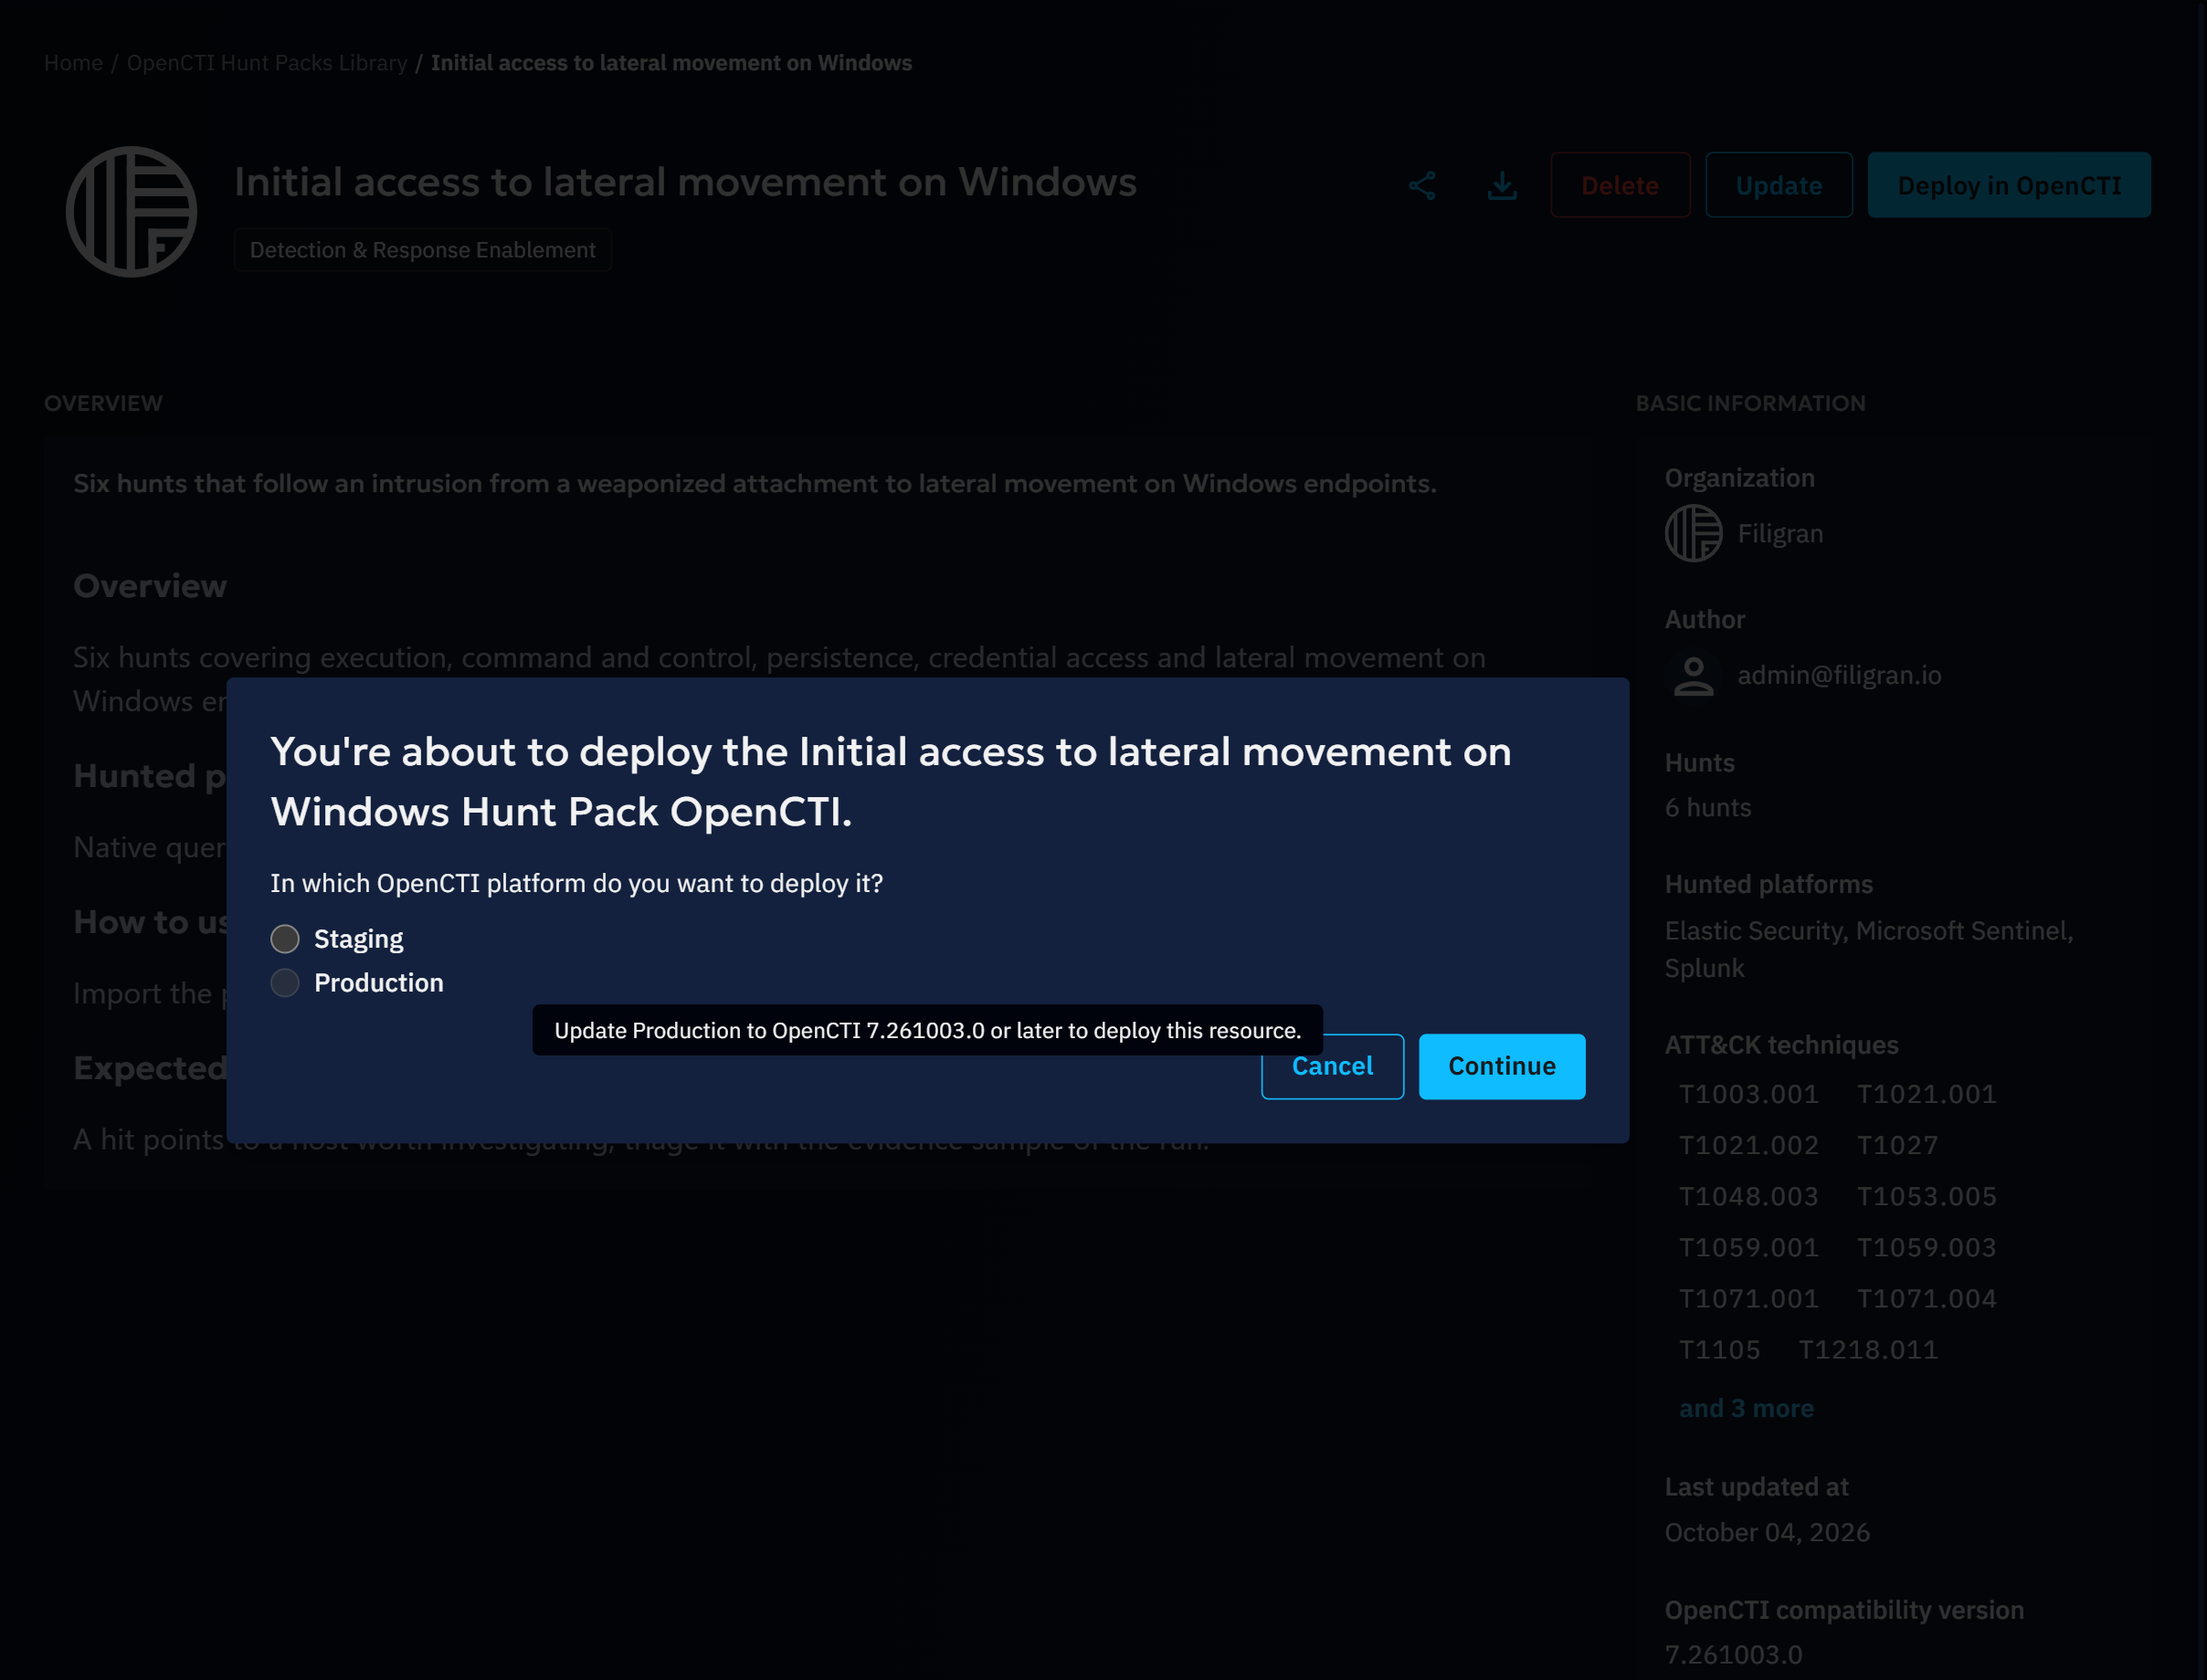
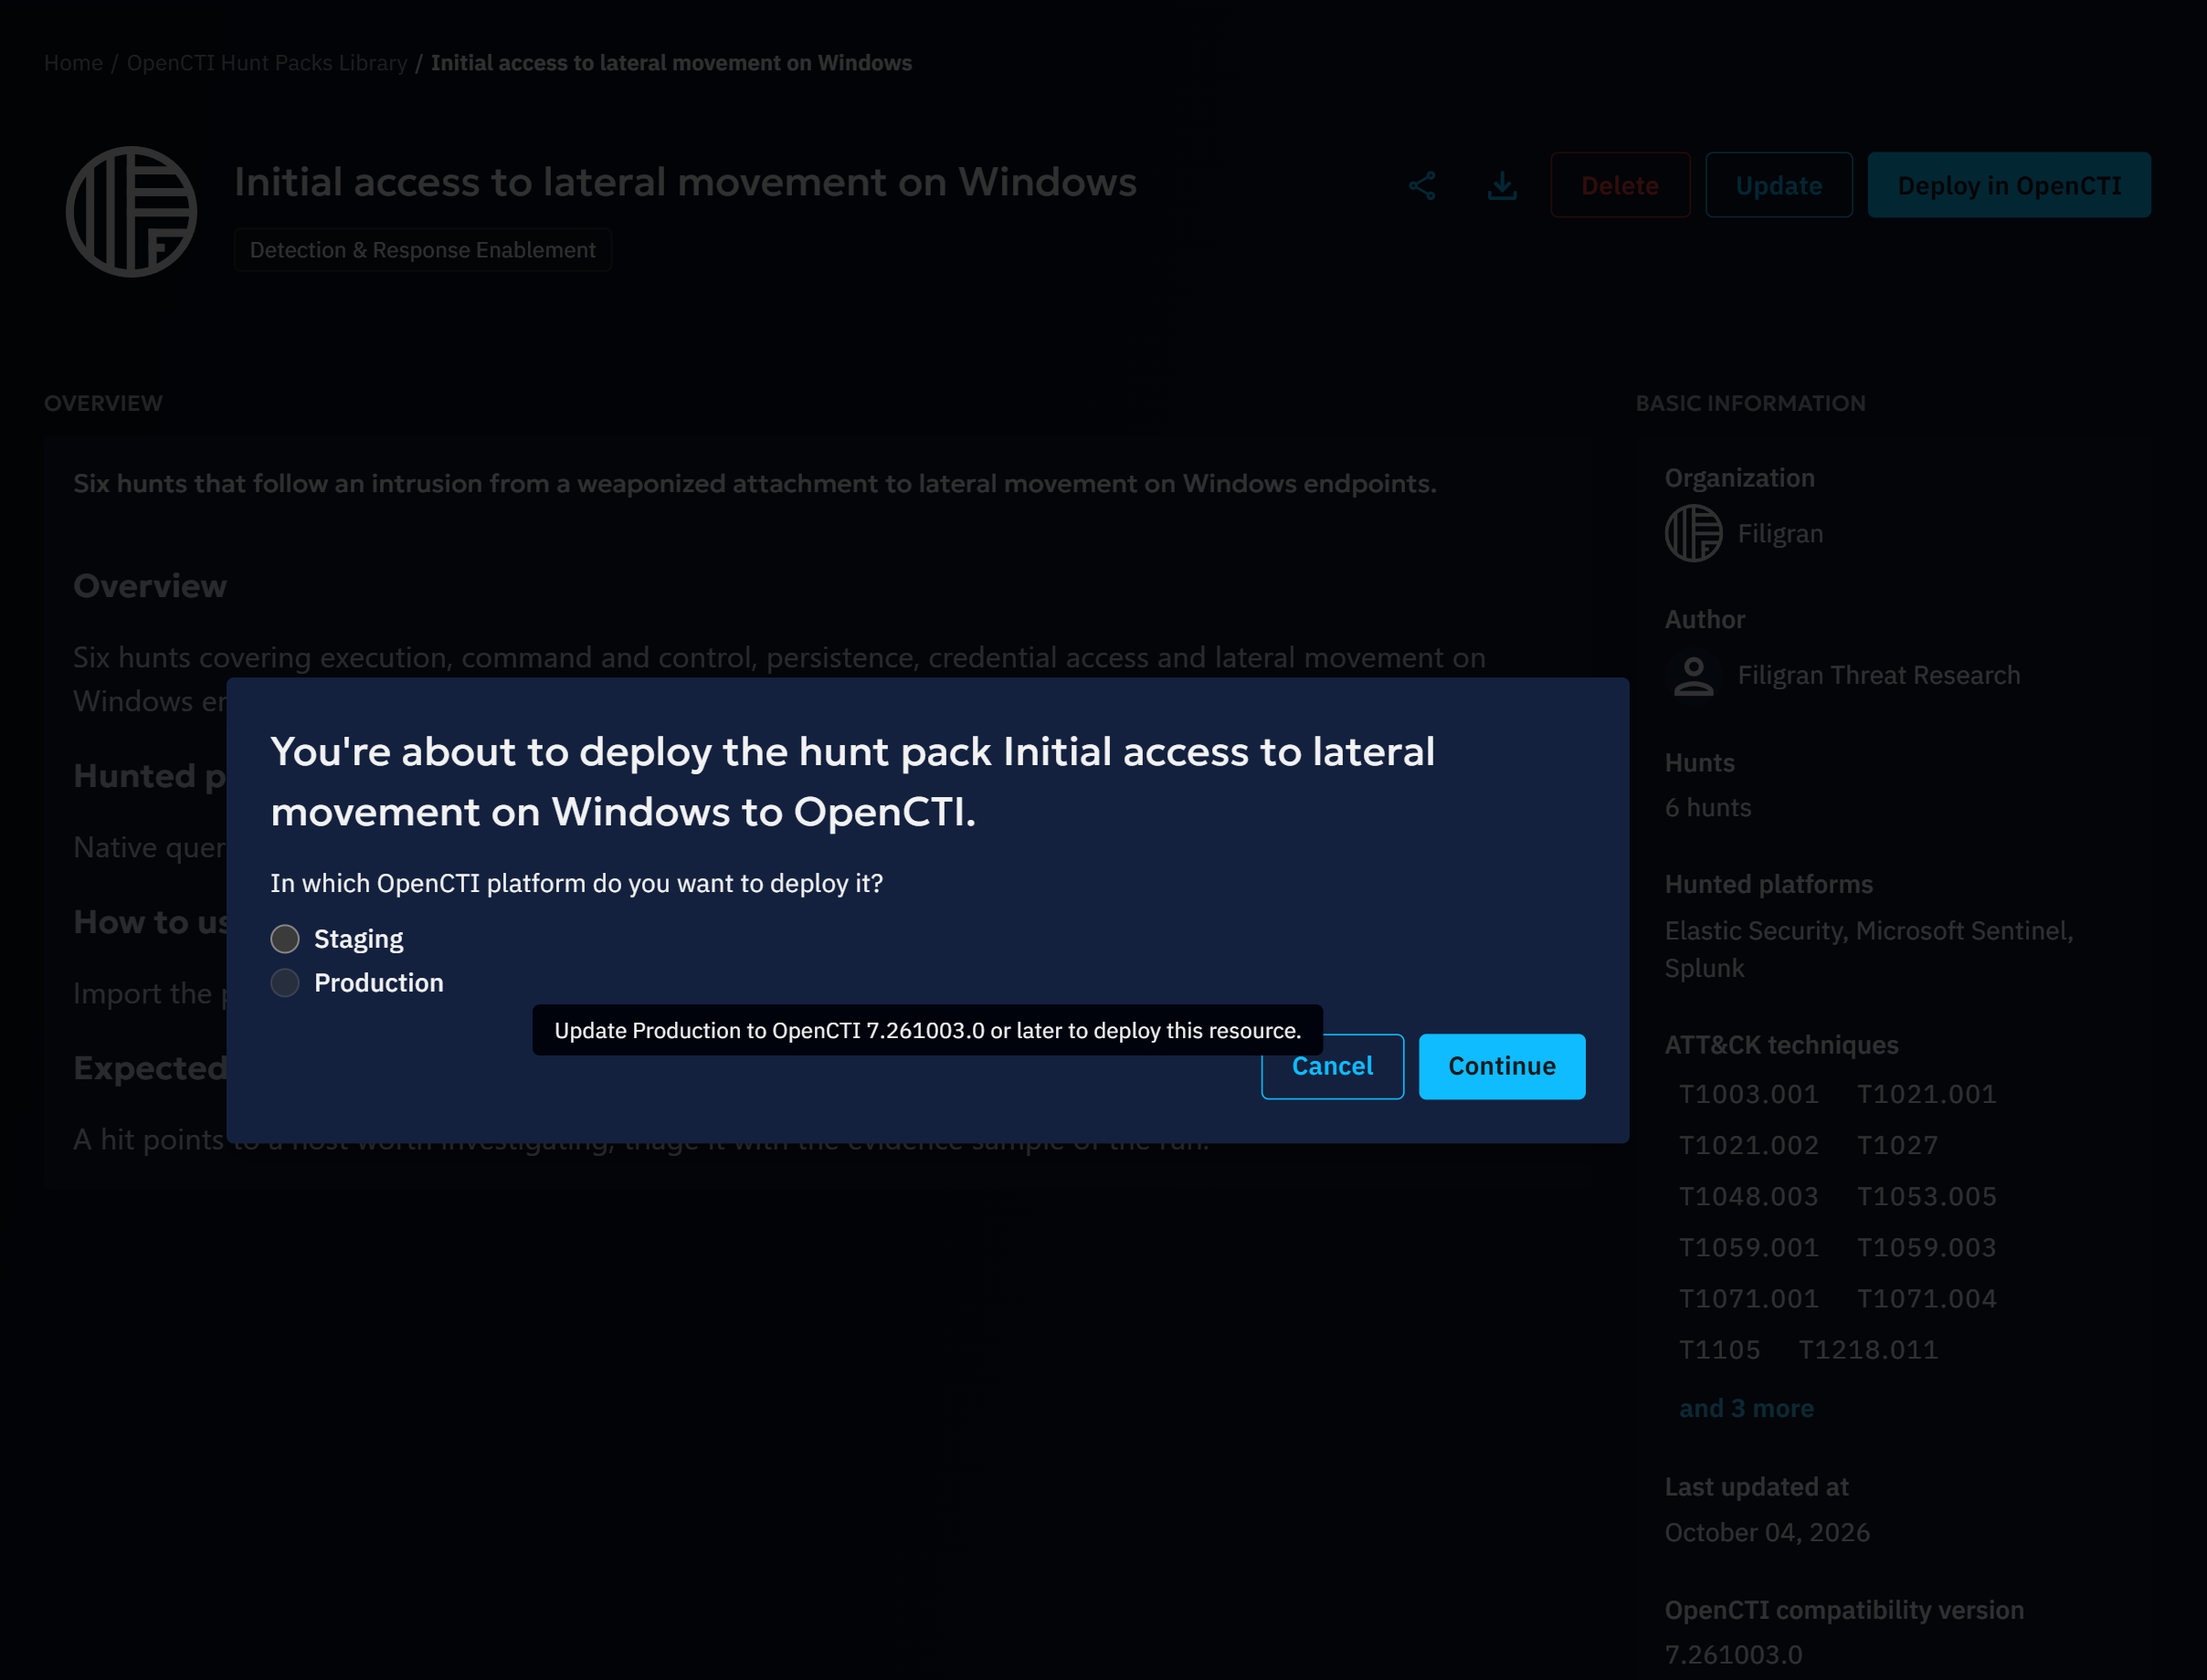
fix(hunt-packs): name the hunt pack in the deploy dialog and retake the captures (#3665)
The deploy dialog of a hunt pack reads: You're about to deploy the hunt pack {name} to OpenCTI., in English, French and Japanese; other resources keep their sentence. The three deployment captures use a demo author.

Changed region(s): [[0.1242, 0.4337, 0.6829, 0.4957]]

diff --git a/apps/frontend/src/components/service/document/one-click-deploy/OneClickDeploy.test.tsx b/apps/frontend/src/components/service/document/one-click-deploy/OneClickDeploy.test.tsx
@@ -37,12 +37,13 @@ const platform = (id: string, title: string, version: string) =>
   }) as unknown as useRegisteredPlatformsFragment$data;
 
 const renderWithPlatforms = (
-  platforms: useRegisteredPlatformsFragment$data[]
+  platforms: useRegisteredPlatformsFragment$data[],
+  documentData = huntPack
 ) => {
   vi.mocked(useRegisteredPlatforms).mockReturnValue({ platforms });
   return testRender(
     <OneClickDeploy
-      documentData={huntPack}
+      documentData={documentData}
       requiredProductVersion="7.261003.0"
     />
   );
@@ -60,10 +61,18 @@ describe('OneClickDeploy - version floor of a hunt pack', () => {
     expect(deployButton()).toBeDisabled();
   });
 
-  it('should allow deployment when the only OpenCTI meets the pack version', () => {
-    renderWithPlatforms([platform('production', 'Production', '7.261003.0')]);
+  it('should allow deployment when the only OpenCTI meets the pack version', async () => {
+    const { user } = renderWithPlatforms([
+      platform('production', 'Production', '7.261003.0'),
+    ]);
 
     expect(deployButton()).toBeEnabled();
+    await user.click(deployButton()!);
+    expect(
+      screen.getByText(
+        'Service.ShareableResources.Deploy.DeployHuntPackDescription'
+      )
+    ).toBeInTheDocument();
   });
 
   it('should only offer the OpenCTI platforms that meet the pack version', async () => {
@@ -74,7 +83,35 @@ describe('OneClickDeploy - version floor of a hunt pack', () => {
 
     await user.click(deployButton()!);
 
+    expect(
+      screen.getByText(
+        'Service.ShareableResources.Deploy.DeployHuntPackDescription'
+      )
+    ).toBeInTheDocument();
     expect(screen.getByLabelText('Production')).toBeDisabled();
     expect(screen.getByLabelText('Staging')).toBeEnabled();
+  });
+
+  it('should keep the shared deployment sentence for other resources', async () => {
+    const customDashboard = {
+      ...huntPack,
+      __typename: 'CustomDashboard',
+      type: 'opencti_custom_dashboard',
+    } as unknown as documentItem_fragment$data;
+    const { user } = renderWithPlatforms(
+      [
+        platform('production', 'Production', '7.261003.0'),
+        platform('staging', 'Staging', '7.261003.0'),
+      ],
+      customDashboard
+    );
+
+    await user.click(deployButton()!);
+
+    expect(
+      screen.getByText(
+        'Service.ShareableResources.Deploy.DeployResourceDescription'
+      )
+    ).toBeInTheDocument();
   });
 });

diff --git a/apps/frontend/src/components/service/document/one-click-deploy/OnePlatformDisplay.tsx b/apps/frontend/src/components/service/document/one-click-deploy/OnePlatformDisplay.tsx
@@ -1,4 +1,4 @@
-import { SHAREABLE_RESOURCE_TYPE_NAME_MAPPING } from '@/utils/shareable-resources/shareable-resources.types';
+import { useDeployResourceTitle } from '@/components/service/document/one-click-deploy/use-deploy-resource-title';
 import { AlertDialogTitle } from '@filigran/ui';
 import { Button } from '@filigran/ui/servers';
 import { documentItem_fragment$data } from '@generated/documentItem_fragment.graphql';
@@ -19,19 +19,12 @@ const OnePlatformDisplay = ({
   oneClickDeploy,
 }: OnePlatformDisplayProps) => {
   const t = useTranslations();
+  const title = useDeployResourceTitle(documentData);
 
   return (
     <>
       <div className="space-y-m">
-        <AlertDialogTitle>
-          {t('Service.ShareableResources.Deploy.DeployResourceDescription', {
-            resourceName: documentData.name ?? '',
-            resourceType:
-              SHAREABLE_RESOURCE_TYPE_NAME_MAPPING[
-                documentData.type as keyof typeof SHAREABLE_RESOURCE_TYPE_NAME_MAPPING
-              ],
-          })}
-        </AlertDialogTitle>
+        <AlertDialogTitle>{title}</AlertDialogTitle>
         <p>
           {t('Service.ShareableResources.Deploy.DeployDescriptionOnePlatform', {
             platformName: platforms[0]?.title ?? 'OpenCTI',

diff --git a/apps/frontend/src/components/service/document/one-click-deploy/ChoosePlatformForm.tsx b/apps/frontend/src/components/service/document/one-click-deploy/ChoosePlatformForm.tsx
@@ -1,6 +1,6 @@
+import { useDeployResourceTitle } from '@/components/service/document/one-click-deploy/use-deploy-resource-title';
 import { cn } from '@/lib/utils';
 import { isEeCapableContract } from '@/utils/platform';
-import { SHAREABLE_RESOURCE_TYPE_NAME_MAPPING } from '@/utils/shareable-resources/shareable-resources.types';
 import { doesVersionSatisfy } from '@/utils/versioning';
 import {
   AutoForm,
@@ -45,19 +45,12 @@ const ChoosePlatformForm = ({
   requiresEe,
 }: ChoosePlatformFormProps) => {
   const t = useTranslations();
+  const title = useDeployResourceTitle(documentData);
 
   return (
     <div className="flex flex-col h-full justify-between gap-m">
       <div className="space-y-m">
-        <h1>
-          {t('Service.ShareableResources.Deploy.DeployResourceDescription', {
-            resourceName: documentData.name ?? '',
-            resourceType:
-              SHAREABLE_RESOURCE_TYPE_NAME_MAPPING[
-                documentData.type as keyof typeof SHAREABLE_RESOURCE_TYPE_NAME_MAPPING
-              ],
-          })}
-        </h1>
+        <h1>{title}</h1>
         <p>
           {t('Service.ShareableResources.Deploy.DeployQuestionTag', {
             platformType: translatedPlatformIdentifier,

diff --git a/apps/frontend/src/components/service/document/one-click-deploy/use-deploy-resource-title.ts b/apps/frontend/src/components/service/document/one-click-deploy/use-deploy-resource-title.ts
@@ -1,0 +1,25 @@
+import {
+  SHAREABLE_RESOURCE_TYPE_NAME_MAPPING,
+  ShareableResourceType,
+} from '@/utils/shareable-resources/shareable-resources.types';
+import { documentItem_fragment$data } from '@generated/documentItem_fragment.graphql';
+import { useTranslations } from 'next-intl';
+
+export const useDeployResourceTitle = (
+  documentData: documentItem_fragment$data
+): string => {
+  const t = useTranslations();
+  const resourceName = documentData.name ?? '';
+  if (documentData.type === ShareableResourceType.OPENCTI_HUNT_PACK) {
+    return t('Service.ShareableResources.Deploy.DeployHuntPackDescription', {
+      resourceName,
+    });
+  }
+  return t('Service.ShareableResources.Deploy.DeployResourceDescription', {
+    resourceName,
+    resourceType:
+      SHAREABLE_RESOURCE_TYPE_NAME_MAPPING[
+        documentData.type as keyof typeof SHAREABLE_RESOURCE_TYPE_NAME_MAPPING
+      ],
+  });
+};

diff --git a/docs/docs/libraries/opencti-hunt-packs.md b/docs/docs/libraries/opencti-hunt-packs.md
@@ -69,9 +69,10 @@ Users allowed to upload to the library publish packs from the library page with 
 1. In OpenCTI, select the hunts to share in Defense > Hunts and export them as a hunt pack.
 2. Upload the exported file. The XTM Hub accepts a STIX 2.1 bundle of 1 to 200 hunts, the format OpenCTI exports
    and imports, and rejects any other file with an explanation. It also runs the checks of the OpenCTI import on
-   every hunt: a name, a valid Sigma rule when the hunt has one, a schedule that is manual, standing or a cron
-   expression firing at most every 15 minutes, and a time window, escalation threshold and result limit within the
-   OpenCTI defaults. A pack OpenCTI would refuse is never published.
+   every hunt: a name, a valid Sigma rule when the hunt has one, native queries for hunted platforms OpenCTI supports
+   (one per platform, each with a language and a query), a schedule that is manual, standing or a cron expression
+   firing at most every 15 minutes, and a time window, escalation threshold and result limit within the OpenCTI
+   defaults. A pack OpenCTI would refuse is never published.
 3. Describe the pack: what it covers, the log sources its hunts need, and how to triage a hit. The hunt count,
    the hunted platforms and the ATT&CK techniques are filled in from the file.
 4. Set the OpenCTI version the pack requires. The XTM Hub never accepts a version older than 7.261003.0, the first
